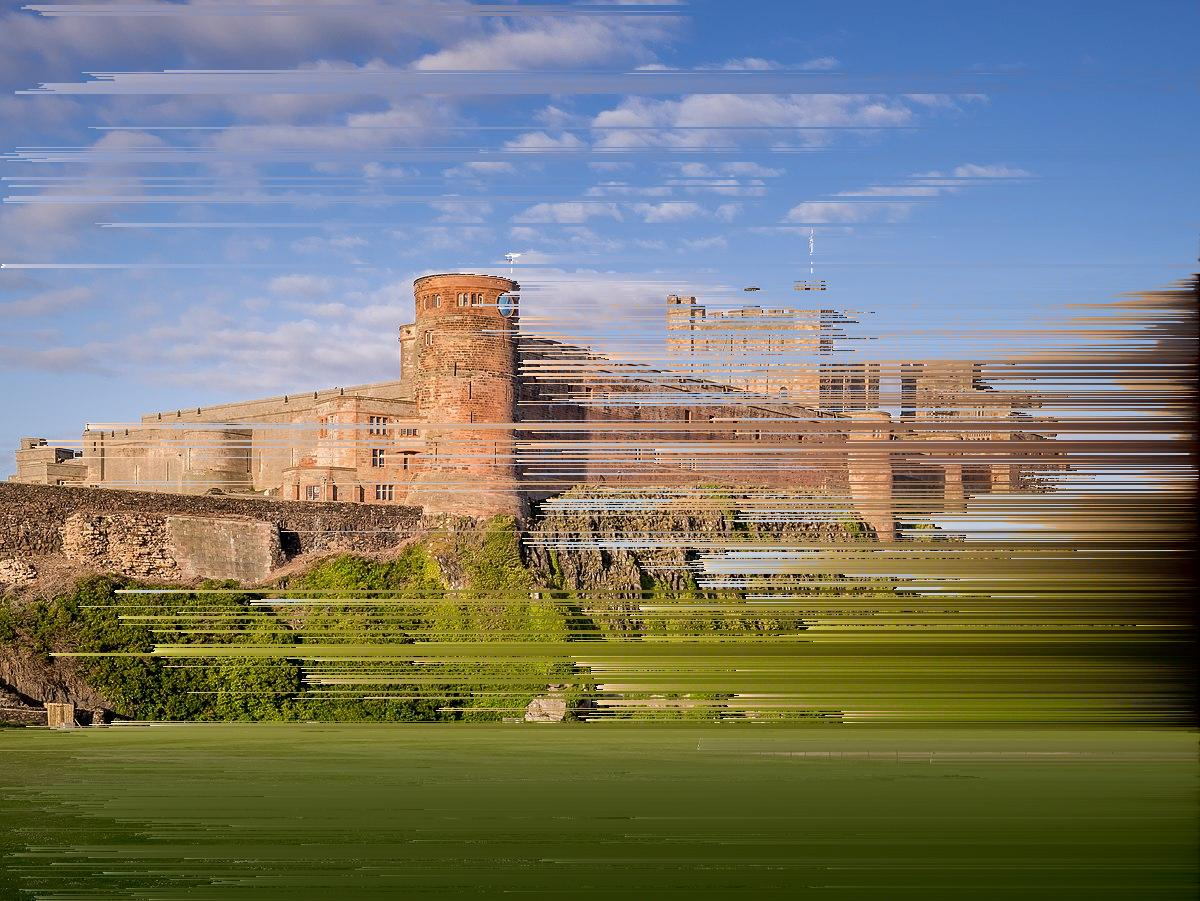
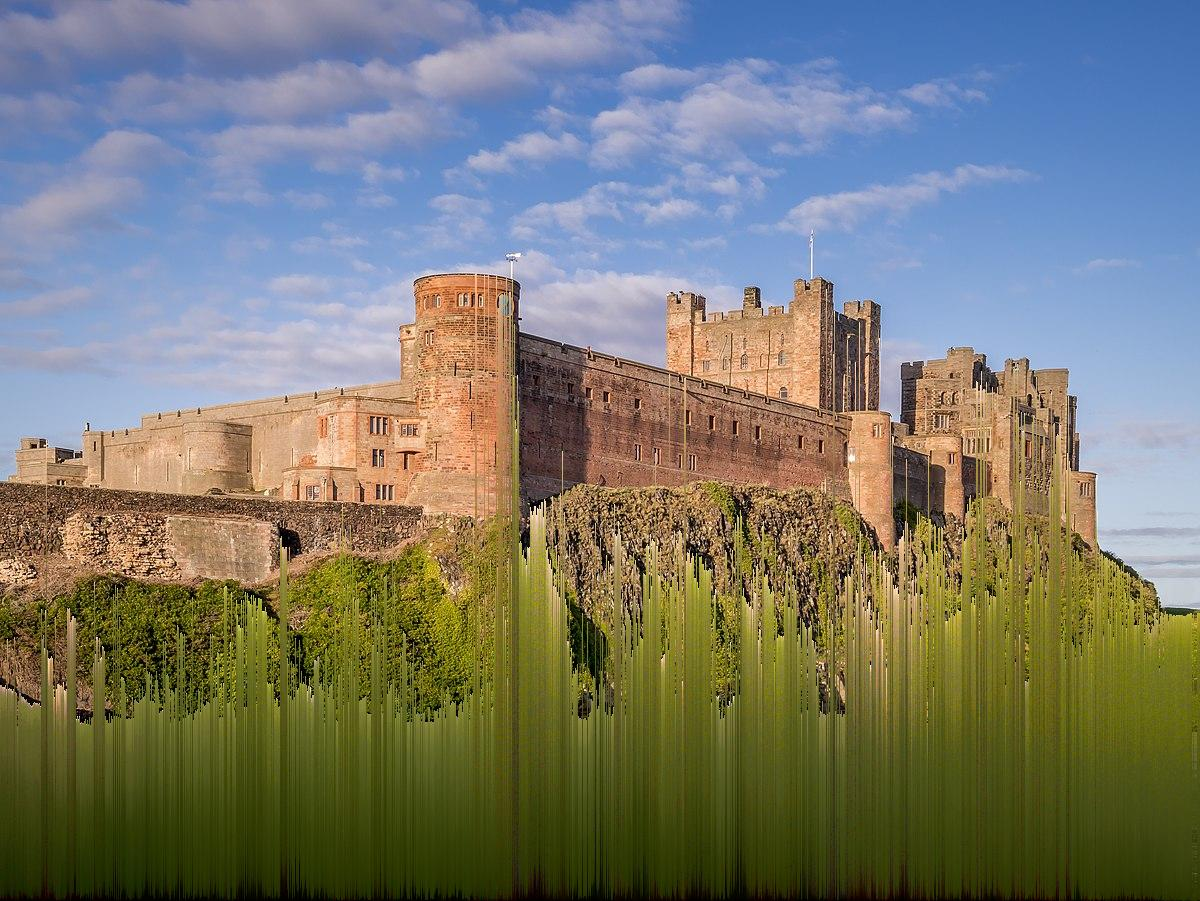
moved around files to make it neater

diff --git a/Main Files/main.py b/Main Files/main.py
@@ -1,23 +1,11 @@
 from PIL import Image
 import numpy as np
 
-img = Image.open('Bamburgh_Castle,_beautiful_day.jpg')
+from sorting_functions import *
+
+img = Image.open("C:/Users/gilsmi0809/PycharmProjects/pixel_sorting/Bamburgh_Castle,_beautiful_day.jpg")
 
 img_a = np.array(img)
-
-
-def luminance(row):
-    temp = np.zeros_like(row)
-    temp[:, 0] = row[:, 0] * 0.2126
-    temp[:, 1] = row[:, 1] * 0.7152
-    temp[:, 2] = row[:, 2] * 0.0722
-    return np.sum(temp, axis=1)
-
-    # TODO convert luminance back to rgb
-
-
-def sum(row):
-    return np.sum(row, axis=1)
 
 
 def sort_row(row, sorting_function):
@@ -33,7 +21,7 @@ def sort_row(row, sorting_function):
     return final_arr
 
 
-def pixelsort(image, rotation=0, sorting_func=sum):
+def pixelsort(image, rotation=0, sorting_func=luminance):
     # rotates image by value given
     image = np.rot90(image, k=rotation)
     new_array = np.empty_like(image)
@@ -46,6 +34,6 @@ def pixelsort(image, rotation=0, sorting_func=sum):
     return new_array
 
 
-img_b = pixelsort(img_a, 2, sum)
+img_b = pixelsort(img_a, 3)
 img_b = Image.fromarray(img_b)
 img_b.save('sorted.jpg')

diff --git a/Main Files/sorting_functions.py b/Main Files/sorting_functions.py
@@ -1,0 +1,14 @@
+import numpy as np
+
+
+def luminance(row):
+    temp = np.zeros_like(row)
+    temp[:, 0] = row[:, 0] * 0.2126
+    temp[:, 1] = row[:, 1] * 0.7152
+    temp[:, 2] = row[:, 2] * 0.0722
+    return np.sum(temp, axis=1)
+
+
+
+def basic_sum(row):
+    return np.sum(row, axis=1)
